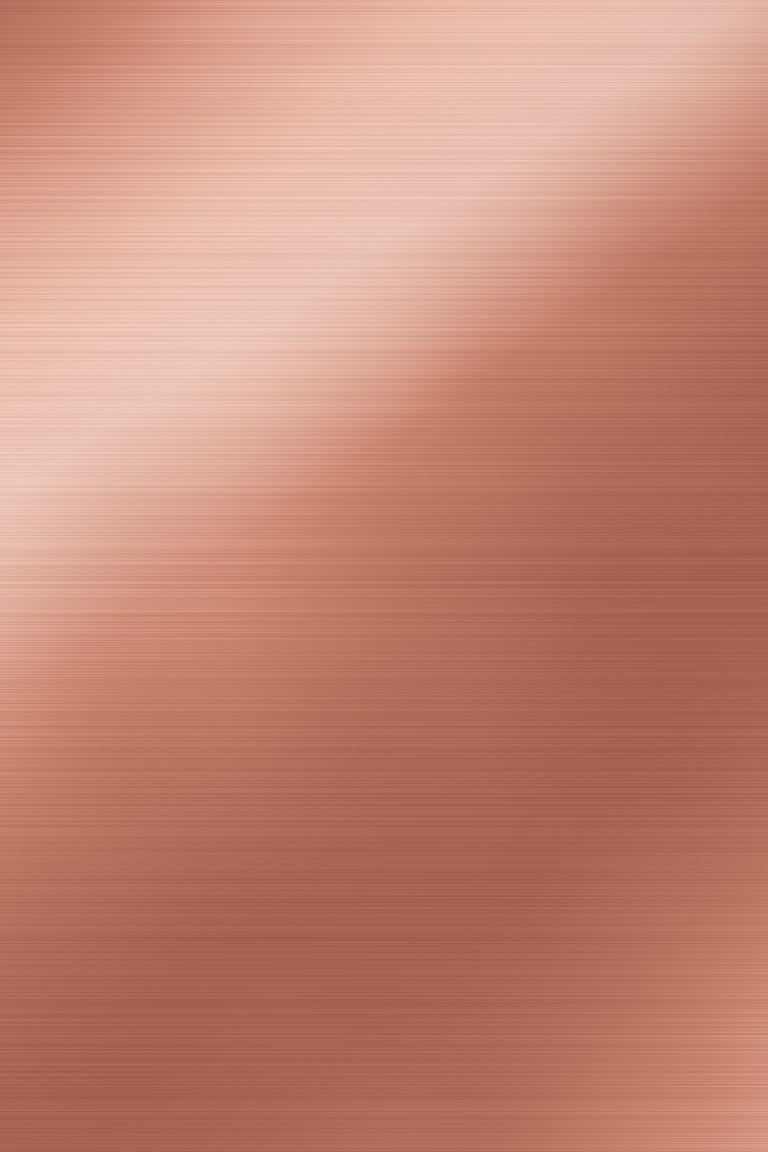
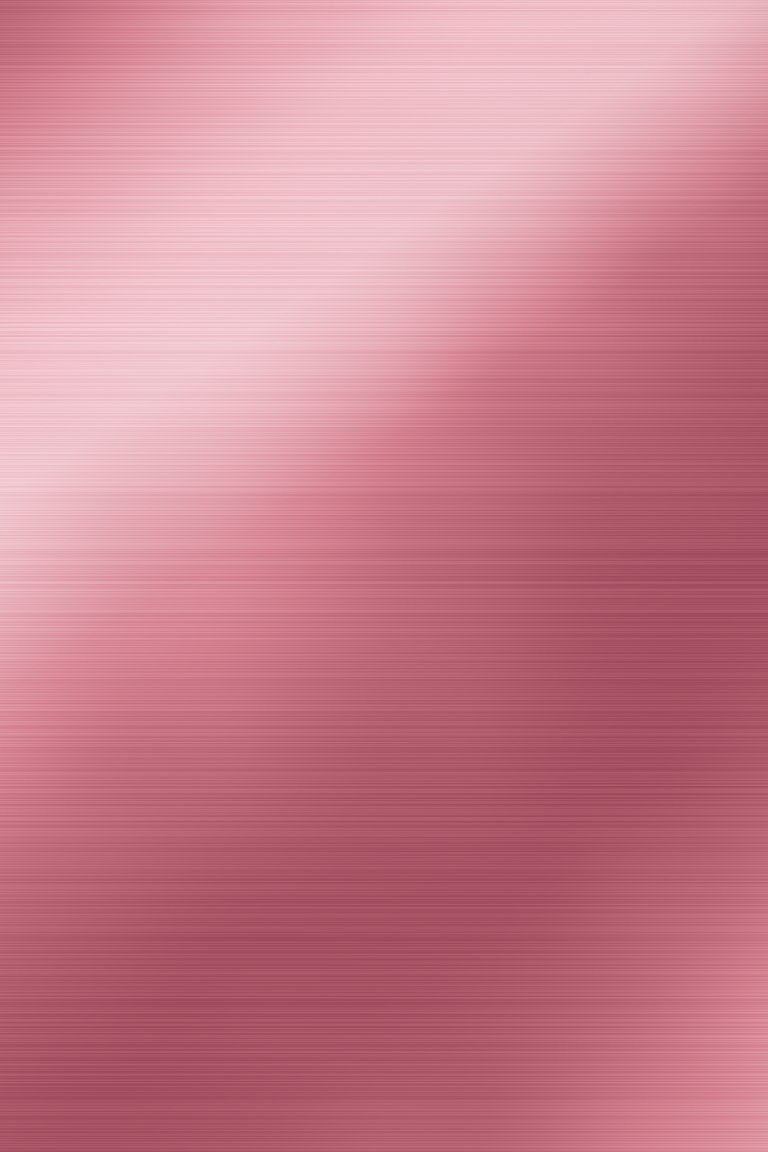
Acabamentos da carta: aro no metal da faixa, moldura por raridade e plaquinha
A textura do acabamento vai para o miolo e a borda continua com o metal da faixa
(bronze, prata, ouro, ícone), na imagem e na carta 3D. Raro tem aro liso, épico ganha
friso gravado e lendário aro arco-íris com friso dourado (e reflexo arco-íris no 3D).
Plaquinha no rodapé com faixa · acabamento e losangos de raridade; placa de leitura
nas texturas carregadas. Ícone com holográfico mais forte e borda dourada.
Ouro rosé mais rosa e Diamante sem brilhos no meio (texturas geradas de novo).

Claude-Session: https://claude.ai/code/session_01JKdwyHbLMwgzRQA1LCx75U

diff --git a/craque/src/card.js b/craque/src/card.js
@@ -158,6 +158,43 @@
     holografico: ['Holográfico', '#1A1030', false], ourorose: ['Ouro rosé', '#3A1A12', false], diamante: ['Diamante', '#0E2236', false],
   };
   root.CRAQUE_FINISH = FINISH;
+  // O acabamento fica no miolo e a borda continua no metal da faixa; a moldura sobe com a raridade do item (ui/items.js):
+  // raro = aro liso, épico = aro com friso gravado, lendário = aro arco-íris e friso dourado
+  const FIN_RK = { carbono: 'raro', marmore: 'raro', madeira: 'raro', neon: 'epico', aurora: 'epico', camuflado: 'epico', vitral: 'epico', holografico: 'lendario', ourorose: 'lendario', diamante: 'lendario' };
+  const FIN_IN = { raro: 18, epico: 20, lendario: 22 }; // largura do aro
+  const RK_COL = { raro: '#C9D1D8', epico: '#F2C230', lendario: '#B48CFF' }; // mesmas cores das raridades dos pacotinhos
+  const RK_N = { raro: 1, epico: 2, lendario: 3 };
+  // Texturas carregadas: placa de leitura atrás do nome e dos atributos (1 escura, 2 clara)
+  const FIN_PLACA = { camuflado: 1, vitral: 1, holografico: 2, diamante: 2 };
+  const RAINBOW = ['#ff6ec7', '#7afcff', '#fff38a', '#8affa1', '#b28dff', '#ff6ec7'];
+  // Escudo encolhido k px para dentro (miolo do acabamento)
+  function shieldIn(ctx, k) {
+    ctx.save(); ctx.translate(300, 441); ctx.scale((530 - 2 * k) / 530, (802 - 2 * k) / 802); ctx.translate(-300, -441); shield(ctx); ctx.restore();
+  }
+  // Moldura e miolo do acabamento: textura, placa de leitura, divisa entre aro e miolo e friso (no 3D o aro é o metal do modelo)
+  function finishInner(ctx, d, fin, img) {
+    const rk = FIN_RK[d.finish] || 'raro', k = FIN_IN[rk];
+    ctx.save(); shieldIn(ctx, k); ctx.clip();
+    if (img) ctx.drawImage(img, 0, -20, W, W * 1.5);
+    if (fin[3]) { const sc = ctx.createRadialGradient(W / 2, H * 0.5, 40, W / 2, H * 0.5, W * 0.7); sc.addColorStop(0, 'rgba(0,0,0,' + fin[3] + ')'); sc.addColorStop(1, 'rgba(0,0,0,' + fin[3] * 0.4 + ')'); ctx.fillStyle = sc; ctx.fillRect(0, 0, W, H); }
+    const pl = FIN_PLACA[d.finish];
+    if (pl) { ctx.fillStyle = pl === 1 ? 'rgba(6,10,16,.42)' : 'rgba(255,255,255,.5)'; ctx.beginPath(); ctx.roundRect ? ctx.roundRect(78, 446, 444, 244, 26) : ctx.rect(78, 446, 444, 244); ctx.fill(); }
+    ctx.restore();
+    shieldIn(ctx, k); ctx.lineWidth = 3; ctx.strokeStyle = 'rgba(0,0,0,.55)'; ctx.stroke();
+    if (rk !== 'raro') { shieldIn(ctx, k + 12); ctx.lineWidth = 2.5; ctx.strokeStyle = rk === 'lendario' ? '#FFE9A8' : 'rgba(255,255,255,.8)'; ctx.stroke(); }
+  }
+  // Plaquinha do rodapé: faixa · acabamento e um losango por nível de raridade
+  function finishPlate(ctx, fillText, label, d, fin, cy) {
+    const rk = FIN_RK[d.finish] || 'raro', n = RK_N[rk], txt = label + ' · ' + fin[0].toUpperCase();
+    ctx.font = '800 19px ' + DISPLAY;
+    const tw = Math.min(ctx.measureText(txt).width, 190), w = tw + 30 + n * 17, x = W / 2 - w / 2;
+    ctx.fillStyle = 'rgba(10,10,14,.62)'; ctx.beginPath(); ctx.roundRect ? ctx.roundRect(x, cy - 15, w, 30, 15) : ctx.rect(x, cy - 15, w, 30); ctx.fill();
+    ctx.lineWidth = 1.5; ctx.strokeStyle = 'rgba(255,255,255,.35)'; ctx.stroke();
+    ctx.fillStyle = '#FFFFFF'; ctx.textAlign = 'left'; fillText(txt, x + 15, cy + 7, 190);
+    ctx.fillStyle = RK_COL[rk];
+    for (let i = 0; i < n; i++) { const px = x + 15 + tw + 14 + i * 17, py = cy; ctx.beginPath(); ctx.moveTo(px, py - 6); ctx.lineTo(px + 6, py); ctx.lineTo(px, py + 6); ctx.lineTo(px - 6, py); ctx.closePath(); ctx.fill(); }
+    ctx.textAlign = 'center';
+  }
   const finishOf = d => (!d.special && d.finish && FINISH[d.finish]) || null;
   async function fontReady(family) {
     try { if (typeof document !== 'undefined' && document.fonts && document.fonts.load) await document.fonts.load('80px ' + family, 'Aa'); } catch (e) { /* segue com a reserva */ }
@@ -300,16 +337,17 @@
     } catch (e) { /* segue */ }
     const traitImgs = await Promise.all((d.traits || []).map(t => twLoad(t.icon)));
     let T = d.special ? specialTheme(d) : themeOf(d.peak, d.grade);
+    const T0 = T; // metal da faixa: vira o aro quando há acabamento
     // bare: só o conteúdo (fundo transparente), para ir por cima do metal da carta 3D
     const fin = finishOf(d);
     if (fin) T = Object.assign({}, T, { ink: fin[1], line: fin[2] ? 'rgba(255,255,255,.45)' : 'rgba(20,20,20,.35)', holo: false });
-    const finImg = fin && !d.bare ? await loadImg('assets/cartas/ac-' + d.finish + '.jpg') : null;
+    const finImg = fin ? await loadImg('assets/cartas/ac-' + d.finish + '.jpg') : null;
     if (d.bare) T = Object.assign({}, T, { ink: d.ink || T.ink, line: d.line || T.line, holo: false });
     canvas.width = W; canvas.height = H;
     const ctx = canvas.getContext('2d');
     ctx.clearRect(0, 0, W, H);
 
-    if (d.bare) { if (T.pattern) { ctx.save(); shield(ctx); ctx.clip(); drawPattern(ctx, T); ctx.restore(); } } else {
+    if (d.bare) { if (T.pattern) { ctx.save(); shield(ctx); ctx.clip(); drawPattern(ctx, T); ctx.restore(); } if (fin) finishInner(ctx, d, fin, finImg); } else {
     // Fundo metálico
     shield(ctx);
     const g = ctx.createLinearGradient(0, 40, W, H - 40);
@@ -317,25 +355,29 @@
     ctx.fillStyle = g; ctx.fill();
     ctx.save();
     shield(ctx); ctx.clip();
-    // Acabamento: a textura cobre a carta (768x1152 → 600x900, centrada)
-    if (finImg) {
-      ctx.drawImage(finImg, 0, -20, W, W * 1.5);
-      if (fin[3]) { const sc = ctx.createRadialGradient(W / 2, H * 0.5, 40, W / 2, H * 0.5, W * 0.7); sc.addColorStop(0, 'rgba(0,0,0,' + fin[3] + ')'); sc.addColorStop(1, 'rgba(0,0,0,' + fin[3] * 0.4 + ')'); ctx.fillStyle = sc; ctx.fillRect(0, 0, W, H); }
-    }
-    // Ícone: reflexo holográfico por cima do metal escuro
-    if (T.holo && ctx.createConicGradient) {
+    // Ícone: reflexo holográfico por cima do metal escuro (mais forte na faixa ícone, que é o topo)
+    if (T0.holo && ctx.createConicGradient) {
       const hg = ctx.createConicGradient(0.6, W * 0.7, H * 0.3);
-      ['#ff6ec7', '#7afcff', '#fff38a', '#8affa1', '#b28dff', '#ff6ec7'].forEach((col, i, a) => hg.addColorStop(i / (a.length - 1), col));
-      ctx.globalAlpha = 0.16; ctx.fillStyle = hg; ctx.fillRect(0, 0, W, H); ctx.globalAlpha = 1;
+      RAINBOW.forEach((col, i, a) => hg.addColorStop(i / (a.length - 1), col));
+      ctx.globalAlpha = T0 === THEMES.icone ? 0.26 : 0.16; ctx.fillStyle = hg; ctx.fillRect(0, 0, W, H); ctx.globalAlpha = 1;
     }
     if (T.pattern) drawPattern(ctx, T);
     // Metal escovado: riscos finos quase horizontais (sempre iguais, sem sorteio)
-    for (let i = 0, y = 44; !finImg && y < H; i++, y += 2.2) {
+    for (let i = 0, y = 44; y < H; i++, y += 2.2) {
       const a = ((i * 37) % 11) / 11;
       ctx.strokeStyle = a > 0.5 ? 'rgba(255,255,255,' + (0.05 + a * 0.05) + ')' : 'rgba(0,0,0,' + (0.03 + a * 0.05) + ')';
       ctx.lineWidth = 1;
       ctx.beginPath(); ctx.moveTo(0, y); ctx.lineTo(W, y + 6); ctx.stroke();
     }
+    // Acabamento lendário: aro arco-íris por cima do metal
+    if (fin && FIN_RK[d.finish] === 'lendario' && ctx.createConicGradient) {
+      const rg = ctx.createConicGradient(0.9, W / 2, H / 2);
+      RAINBOW.forEach((col, i, a) => rg.addColorStop(i / (a.length - 1), col));
+      ctx.globalCompositeOperation = 'overlay'; ctx.globalAlpha = 0.55; ctx.fillStyle = rg; ctx.fillRect(0, 0, W, H);
+      ctx.globalCompositeOperation = 'source-over'; ctx.globalAlpha = 1;
+    }
+    // Acabamento: a textura no miolo (768x1152 → 600x900, centrada), dentro do aro da faixa
+    if (fin) { ctx.restore(); ctx.save(); finishInner(ctx, d, fin, finImg); shield(ctx); ctx.clip(); }
     // Faixa de reflexo especular
     const sh = ctx.createLinearGradient(0, 0, W, H);
     sh.addColorStop(0.18, 'rgba(255,255,255,0)'); sh.addColorStop(0.3, 'rgba(255,255,255,0.42)');
@@ -346,10 +388,13 @@
     const bev = ctx.createLinearGradient(0, 40, W, H);
     bev.addColorStop(0, 'rgba(255,255,255,0.85)'); bev.addColorStop(0.5, 'rgba(255,255,255,0.15)'); bev.addColorStop(1, 'rgba(0,0,0,0.55)');
     shield(ctx); ctx.lineWidth = 8; ctx.strokeStyle = bev; ctx.stroke();
-    ctx.save();
-    ctx.translate(W / 2, H / 2); ctx.scale(0.955, 0.965); ctx.translate(-W / 2, -H / 2);
-    shield(ctx); ctx.lineWidth = 2.5; ctx.strokeStyle = T.line; ctx.stroke();
-    ctx.restore();
+    if (T0 === THEMES.icone) { shield(ctx); ctx.lineWidth = 3; ctx.strokeStyle = '#F4D675'; ctx.stroke(); }
+    if (!fin) {
+      ctx.save();
+      ctx.translate(W / 2, H / 2); ctx.scale(0.955, 0.965); ctx.translate(-W / 2, -H / 2);
+      shield(ctx); ctx.lineWidth = 2.5; ctx.strokeStyle = T.line; ctx.stroke();
+      ctx.restore();
+    }
     }
     // Texto em alto-relevo: sombra escura embaixo e luz em cima
     // Sutil: só 1 px de luz/sombra. Usa sempre o fillText original do canvas — redesenhar a carta
@@ -389,7 +434,7 @@
       const F = SIGN[d.sign];
       if (F) await fontReady(F.family);
       ctx.save(); shield(ctx); ctx.clip();
-      ctx.fillStyle = ink; ctx.textAlign = 'center'; ctx.font = '800 400px ' + DISPLAY; ctx.globalAlpha = F ? 0.14 : 0.24;
+      ctx.fillStyle = ink; ctx.textAlign = 'center'; ctx.font = '800 400px ' + DISPLAY; ctx.globalAlpha = (F ? 0.14 : 0.24) * (fin && FIN_PLACA[d.finish] ? 0.5 : 1);
       ctx.fillText(String(d.number || ({ ATA: 9, MEI: 10, ZAG: 4, GOL: 1 }[d.pos] || 10)), 382, 428); ctx.globalAlpha = 1;
       ctx.restore();
       if (F) signature(ctx, ink, emboss, String(d.name || '').trim() || 'Craque', F, 372, 262, 340, 200);
@@ -444,6 +489,17 @@
     const extra = [];
     if (d.ballon) extra.push(d.ballon + ' BOLA' + (d.ballon > 1 ? 'S' : '') + ' DE OURO');
     if (d.wc) extra.push(d.wc > 1 ? d.wc + ' COPAS DO MUNDO' : 'CAMPEÃO DO MUNDO');
+    if (fin) { // acabamento: números, conquistas e veredito em cima; a plaquinha com faixa · acabamento embaixo
+      ctx.font = '700 21px ' + BODY;
+      const ln = d.pos === 'GOL' ? (d.cs || 0) + ' SEM SOFRER GOL · ' + (d.penSaved || 0) + ' PÊN. DEF.'
+        : d.pos === 'ZAG' ? d.goals + ' GOLS · ' + (d.cs || 0) + ' SEM SOFRER GOL' : d.goals + ' GOLS · ' + d.assists + ' ASSIST';
+      ctx.fillText(ln + ' · ' + d.titles + ' TÍTULOS', W / 2, extra.length ? 724 : 734, 420);
+      if (extra.length) { ctx.font = '800 19px ' + BODY; ctx.fillText(extra.join(' · '), W / 2, 748, 390); }
+      ctx.font = '800 17px ' + DISPLAY; ctx.globalAlpha = 0.85;
+      ctx.fillText(d.verdict.toUpperCase(), W / 2, extra.length ? 769 : 760, 330); ctx.globalAlpha = 1;
+      embossOn = false; finishPlate(ctx, fillText, T0.label, d, fin, extra.length ? 795 : 789); embossOn = true;
+      return canvas;
+    }
     ctx.font = '700 21px ' + BODY;
     const line = d.pos === 'GOL' ? (d.cs || 0) + ' SEM SOFRER GOL · ' + (d.penSaved || 0) + ' PÊN. DEF.'
       : d.pos === 'ZAG' ? d.goals + ' GOLS · ' + (d.cs || 0) + ' SEM SOFRER GOL' : d.goals + ' GOLS · ' + d.assists + ' ASSIST';
@@ -509,7 +565,8 @@
     const k = d.special ? { tots: 'azul', heroi: 'vermelha', copa: 'verde', bola: 'dourada', chuteira: 'fogo', garcom: 'turquesa', muralha: 'aco', xerife: 'marinho', joia: 'rosa', lenda: 'onix', triplice: 'esmeralda', mundial: 'celeste', perfeita: 'arcoiris' }[d.special]
       : { bronze: 'bronze', prata: 'prata', ouro: 'dourada', icone: 'icone' }[Object.keys(THEMES).find(n => THEMES[n] === themeOf(d.peak, d.grade))];
     const fin = finishOf(d);
-    if (fin) return { metal: 'ac-' + d.finish, ink: fin[1], inkLight: fin[2], line: fin[2] ? 'rgba(255,255,255,.45)' : 'rgba(20,30,10,.35)' };
+    // Acabamento: o metal do modelo é o da faixa (vira o aro) e a textura vem no conteúdo; lendário reflete arco-íris
+    if (fin) return { metal: k, ink: fin[1], inkLight: fin[2], line: fin[2] ? 'rgba(255,255,255,.45)' : 'rgba(20,30,10,.35)', iri: FIN_RK[d.finish] === 'lendario' };
     const ink = { azul: ['#FFFFFF', true], vermelha: ['#FFF4E6', true], verde: ['#06220F', false], dourada: ['#231800', false],
       bronze: ['#2A1505', false], prata: ['#141C26', false], icone: ['#F4D675', true],
       fogo: ['#FFF1C2', true], turquesa: ['#FFFFFF', true], aco: ['#F2F6FA', true], marinho: ['#E6ECF7', true], rosa: ['#FFF0F7', true], onix: ['#F4D675', true],

diff --git a/craque/index.html b/craque/index.html
@@ -27,7 +27,7 @@
 <meta name="apple-mobile-web-app-status-bar-style" content="default">
 <!-- Fontes no próprio site (tools/craque_fonts.py); a do título vem antes para a primeira tela sair certa -->
 <link rel="preload" href="fonts/barlow-condensed-800-latin.woff2" as="font" type="font/woff2" crossorigin>
-<link rel="stylesheet" href="style.css?v=2cceb9ec">
+<link rel="stylesheet" href="style.css?v=6720c491">
 </head>
 <body>
 <div id="app">
@@ -43,71 +43,71 @@
   <!-- Aparece antes dos scripts terminarem de carregar (a tela inicial substitui igual) -->
   <main id="screen"><div class="hero splash"><div class="ball3d" aria-hidden="true"></div><div class="eyebrow">Carreira de futebol</div><h1>CLIMBIX</h1></div></main>
 </div>
-<script>window.CLIMBIX_VER = '2cceb9ec';</script>
-<script defer src="src/errors.js?v=2cceb9ec"></script>
-<script defer src="src/sound.js?v=2cceb9ec"></script>
-<script defer src="src/data.js?v=2cceb9ec"></script>
-<script defer src="src/social-data.js?v=2cceb9ec"></script>
-<script defer src="src/social-events.js?v=2cceb9ec"></script>
-<script defer src="src/events-text.js?v=2cceb9ec"></script>
-<script defer src="src/engine/core.js?v=2cceb9ec"></script>
-<script defer src="src/engine/events.js?v=2cceb9ec"></script>
-<script defer src="src/engine/events2.js?v=2cceb9ec"></script>
-<script defer src="src/engine/stakes.js?v=2cceb9ec"></script>
-<script defer src="src/engine/decisions.js?v=2cceb9ec"></script>
-<script defer src="src/engine/events3.js?v=2cceb9ec"></script>
-<script defer src="src/engine/moments.js?v=2cceb9ec"></script>
-<script defer src="src/engine/worldcup.js?v=2cceb9ec"></script>
-<script defer src="src/engine/season.js?v=2cceb9ec"></script>
-<script defer src="src/engine/market.js?v=2cceb9ec"></script>
-<script defer src="src/engine/finish.js?v=2cceb9ec"></script>
-<script defer src="src/engine/achievements.js?v=2cceb9ec"></script>
-<script defer src="src/engine/rival.js?v=2cceb9ec"></script>
-<script defer src="src/engine/origins.js?v=2cceb9ec"></script>
-<script defer src="src/engine/contract.js?v=2cceb9ec"></script>
-<script defer src="src/engine/relampago.js?v=2cceb9ec"></script>
-<script defer src="src/trophy-imgs.js?v=2cceb9ec"></script>
-<script defer src="src/trophies.js?v=2cceb9ec"></script>
-<script defer src="src/card.js?v=2cceb9ec"></script>
-<script defer src="src/cine.js?v=2cceb9ec"></script>
-<script defer src="src/kick.js?v=2cceb9ec"></script>
-<script defer src="src/defend.js?v=2cceb9ec"></script>
-<script defer src="src/kits.js?v=2cceb9ec"></script>
-<script defer src="src/kits-real.js?v=2cceb9ec"></script>
-<script defer src="src/avatar.js?v=2cceb9ec"></script>
-<script defer src="src/chars.js?v=2cceb9ec"></script>
-<script defer src="src/ui/core.js?v=2cceb9ec"></script>
-<script defer src="src/ui/motion.js?v=2cceb9ec"></script>
-<script defer src="src/ui/tips.js?v=2cceb9ec"></script>
-<script defer src="src/ui/paper.js?v=2cceb9ec"></script>
-<script defer src="src/ui/walkout.js?v=2cceb9ec"></script>
-<script defer src="src/ui/album.js?v=2cceb9ec"></script>
-<script defer src="src/ui/sheet.js?v=2cceb9ec"></script>
-<script defer src="src/ui/ranking.js?v=2cceb9ec"></script>
-<script defer src="src/ui/cardview.js?v=2cceb9ec"></script>
-<script defer src="src/ui/collection.js?v=2cceb9ec"></script>
-<script defer src="src/ui/trophyroom.js?v=2cceb9ec"></script>
-<script defer src="src/ui/social.js?v=2cceb9ec"></script>
-<script defer src="src/ui/cloud.js?v=2cceb9ec"></script>
-<script defer src="src/ui/settings.js?v=2cceb9ec"></script>
-<script defer src="src/ui/items.js?v=2cceb9ec"></script>
-<script defer src="src/ui/packs.js?v=2cceb9ec"></script>
-<script defer src="src/ui/start.js?v=2cceb9ec"></script>
-<script defer src="src/ui/offers.js?v=2cceb9ec"></script>
-<script defer src="src/ui/preseason.js?v=2cceb9ec"></script>
-<script defer src="src/ui/match.js?v=2cceb9ec"></script>
-<script defer src="src/ui/training.js?v=2cceb9ec"></script>
-<script defer src="src/ui/feedback.js?v=2cceb9ec"></script>
-<script defer src="src/ui/challenge.js?v=2cceb9ec"></script>
-<script defer src="src/ui/relampago.js?v=2cceb9ec"></script>
-<script defer src="src/ui/desktop.js?v=2cceb9ec"></script>
-<script defer src="src/ui/season.js?v=2cceb9ec"></script>
-<script defer src="src/ui/worldcup.js?v=2cceb9ec"></script>
-<script defer src="src/ui/finale.js?v=2cceb9ec"></script>
-<script defer src="src/ui/achievements.js?v=2cceb9ec"></script>
-<script defer src="src/ui/daily.js?v=2cceb9ec"></script>
-<script defer src="src/main.js?v=2cceb9ec"></script>
+<script>window.CLIMBIX_VER = '6720c491';</script>
+<script defer src="src/errors.js?v=6720c491"></script>
+<script defer src="src/sound.js?v=6720c491"></script>
+<script defer src="src/data.js?v=6720c491"></script>
+<script defer src="src/social-data.js?v=6720c491"></script>
+<script defer src="src/social-events.js?v=6720c491"></script>
+<script defer src="src/events-text.js?v=6720c491"></script>
+<script defer src="src/engine/core.js?v=6720c491"></script>
+<script defer src="src/engine/events.js?v=6720c491"></script>
+<script defer src="src/engine/events2.js?v=6720c491"></script>
+<script defer src="src/engine/stakes.js?v=6720c491"></script>
+<script defer src="src/engine/decisions.js?v=6720c491"></script>
+<script defer src="src/engine/events3.js?v=6720c491"></script>
+<script defer src="src/engine/moments.js?v=6720c491"></script>
+<script defer src="src/engine/worldcup.js?v=6720c491"></script>
+<script defer src="src/engine/season.js?v=6720c491"></script>
+<script defer src="src/engine/market.js?v=6720c491"></script>
+<script defer src="src/engine/finish.js?v=6720c491"></script>
+<script defer src="src/engine/achievements.js?v=6720c491"></script>
+<script defer src="src/engine/rival.js?v=6720c491"></script>
+<script defer src="src/engine/origins.js?v=6720c491"></script>
+<script defer src="src/engine/contract.js?v=6720c491"></script>
+<script defer src="src/engine/relampago.js?v=6720c491"></script>
+<script defer src="src/trophy-imgs.js?v=6720c491"></script>
+<script defer src="src/trophies.js?v=6720c491"></script>
+<script defer src="src/card.js?v=6720c491"></script>
+<script defer src="src/cine.js?v=6720c491"></script>
+<script defer src="src/kick.js?v=6720c491"></script>
+<script defer src="src/defend.js?v=6720c491"></script>
+<script defer src="src/kits.js?v=6720c491"></script>
+<script defer src="src/kits-real.js?v=6720c491"></script>
+<script defer src="src/avatar.js?v=6720c491"></script>
+<script defer src="src/chars.js?v=6720c491"></script>
+<script defer src="src/ui/core.js?v=6720c491"></script>
+<script defer src="src/ui/motion.js?v=6720c491"></script>
+<script defer src="src/ui/tips.js?v=6720c491"></script>
+<script defer src="src/ui/paper.js?v=6720c491"></script>
+<script defer src="src/ui/walkout.js?v=6720c491"></script>
+<script defer src="src/ui/album.js?v=6720c491"></script>
+<script defer src="src/ui/sheet.js?v=6720c491"></script>
+<script defer src="src/ui/ranking.js?v=6720c491"></script>
+<script defer src="src/ui/cardview.js?v=6720c491"></script>
+<script defer src="src/ui/collection.js?v=6720c491"></script>
+<script defer src="src/ui/trophyroom.js?v=6720c491"></script>
+<script defer src="src/ui/social.js?v=6720c491"></script>
+<script defer src="src/ui/cloud.js?v=6720c491"></script>
+<script defer src="src/ui/settings.js?v=6720c491"></script>
+<script defer src="src/ui/items.js?v=6720c491"></script>
+<script defer src="src/ui/packs.js?v=6720c491"></script>
+<script defer src="src/ui/start.js?v=6720c491"></script>
+<script defer src="src/ui/offers.js?v=6720c491"></script>
+<script defer src="src/ui/preseason.js?v=6720c491"></script>
+<script defer src="src/ui/match.js?v=6720c491"></script>
+<script defer src="src/ui/training.js?v=6720c491"></script>
+<script defer src="src/ui/feedback.js?v=6720c491"></script>
+<script defer src="src/ui/challenge.js?v=6720c491"></script>
+<script defer src="src/ui/relampago.js?v=6720c491"></script>
+<script defer src="src/ui/desktop.js?v=6720c491"></script>
+<script defer src="src/ui/season.js?v=6720c491"></script>
+<script defer src="src/ui/worldcup.js?v=6720c491"></script>
+<script defer src="src/ui/finale.js?v=6720c491"></script>
+<script defer src="src/ui/achievements.js?v=6720c491"></script>
+<script defer src="src/ui/daily.js?v=6720c491"></script>
+<script defer src="src/main.js?v=6720c491"></script>
 <!-- O 3D (biblioteca de ~1 MB) só carrega depois que o jogo abre: ver src/main.js -->
-<script type="text/plain" id="ball3d-src" data-src="src/ball3d.js?v=2cceb9ec"></script>
+<script type="text/plain" id="ball3d-src" data-src="src/ball3d.js?v=6720c491"></script>
 </body>
 </html>

diff --git a/craque/src/ball3d.js b/craque/src/ball3d.js
@@ -252,17 +252,6 @@ const CARD_TRIM = {
   esmeralda: { borda: [0.860, 0.720, 0.350], filete: [0.950, 0.840, 0.460] },
   celeste: { borda: [0.750, 0.850, 0.950], filete: [1.000, 1.000, 1.000] },
   arcoiris: { borda: [0.950, 0.950, 0.980], filete: [0.600, 0.450, 0.950] },
-  // Acabamentos (itens): a borda puxa a cor da textura
-  'ac-carbono': { borda: [0.300, 0.320, 0.350], filete: [0.850, 0.880, 0.920] },
-  'ac-marmore': { borda: [0.860, 0.720, 0.350], filete: [0.950, 0.840, 0.460] },
-  'ac-madeira': { borda: [0.550, 0.340, 0.180], filete: [0.950, 0.840, 0.600] },
-  'ac-neon': { borda: [0.200, 0.900, 0.950], filete: [1.000, 0.350, 0.800] },
-  'ac-aurora': { borda: [0.400, 0.900, 0.650], filete: [0.700, 0.500, 0.950] },
-  'ac-camuflado': { borda: [0.450, 0.470, 0.500], filete: [0.850, 0.870, 0.900] },
-  'ac-vitral': { borda: [0.250, 0.230, 0.220], filete: [0.950, 0.800, 0.400] },
-  'ac-holografico': { borda: [0.950, 0.950, 0.980], filete: [0.600, 0.450, 0.950] },
-  'ac-ourorose': { borda: [0.900, 0.640, 0.560], filete: [1.000, 0.880, 0.820] },
-  'ac-diamante': { borda: [0.850, 0.920, 0.980], filete: [1.000, 1.000, 1.000] },
 };
 let cardModel = null;
 const cardReady = () => (cardModel = cardModel || new GLTFLoader().loadAsync('assets/carta.glb?v=5faf94a3').then(g => g.scene));
@@ -354,8 +343,8 @@ function card3d(host, data, opts) {
       if (f) {
         f.map = tex; f.map.offset.set(0, 0); f.map.repeat.set(1, 1);
         f.color.set(0xffffff); f.metalness = 0.85; f.roughness = 0.3;
-        // Temporada Perfeita: reflexo arco-íris que muda com o ângulo
-        if ('iridescence' in f) { const iri = d.special === 'perfeita' || look.metal === 'ac-holografico'; f.iridescence = iri ? 1 : 0; f.iridescenceIOR = 2.2; f.iridescenceThicknessRange = [120, 900]; }
+        // Temporada Perfeita e acabamentos lendários: reflexo arco-íris que muda com o ângulo
+        if ('iridescence' in f) { const iri = d.special === 'perfeita' || !!look.iri; f.iridescence = iri ? 1 : 0; f.iridescenceIOR = 2.2; f.iridescenceThicknessRange = [120, 900]; }
         f.needsUpdate = true;
       }
       const tr = CARD_TRIM[look.metal] || CARD_TRIM.prata;

diff --git a/tools/craque_acabamentos.js b/tools/craque_acabamentos.js
@@ -156,7 +156,7 @@ const T = {
   ourorose() {
     const n = noise(13), r = rnd(5), rows = new Float32Array(H);
     for (let y = 0; y < H; y++) rows[y] = (r() - .5) * .14;
-    const a = hex('#9E5A48'), b = hex('#F4C8B6'), cc = hex('#C9846E');
+    const a = hex('#9A4658'), b = hex('#F8CCD4'), cc = hex('#D4808F'); // rosa de verdade, longe do bronze
     const c = pixels((x, y) => {
       const t = (x / W) * .4 + (y / H) * .6 + (n(x * .002, y * .002, 3) - .5) * .3;
       const brush = rows[y] + (n(x * .004, y * 1.5, 1) - .5) * .08;
@@ -178,7 +178,8 @@ const T = {
       x.strokeStyle = 'rgba(255,255,255,.7)'; x.lineWidth = 1.4; x.stroke();
     };
     for (let k = 0; k + cols + 1 < pts.length; k++) { if ((k + 1) % cols === 0) continue; tri(pts[k], pts[k + 1], pts[k + cols]); tri(pts[k + 1], pts[k + cols + 1], pts[k + cols]); }
-    for (let i = 0; i < 70; i++) { const px = r() * W, py = r() * H, s = 2 + r() * 5; x.fillStyle = 'rgba(255,255,255,.9)'; x.fillRect(px - s / 4, py - s * 2, s / 2, s * 4); x.fillRect(px - s * 2, py - s / 4, s * 4, s / 2); }
+    // Brilhos só perto da borda, fora do nome e dos atributos
+    for (let i = 0; i < 70; i++) { const px = r() * W, py = r() * H, s = 2 + r() * 5; if (px > W * .16 && px < W * .84 && py > H * .14 && py < H * .86) continue; x.fillStyle = 'rgba(255,255,255,.9)'; x.fillRect(px - s / 4, py - s * 2, s / 2, s * 4); x.fillRect(px - s * 2, py - s / 4, s * 4, s / 2); }
     return sheen(c, .3);
   },
 };
